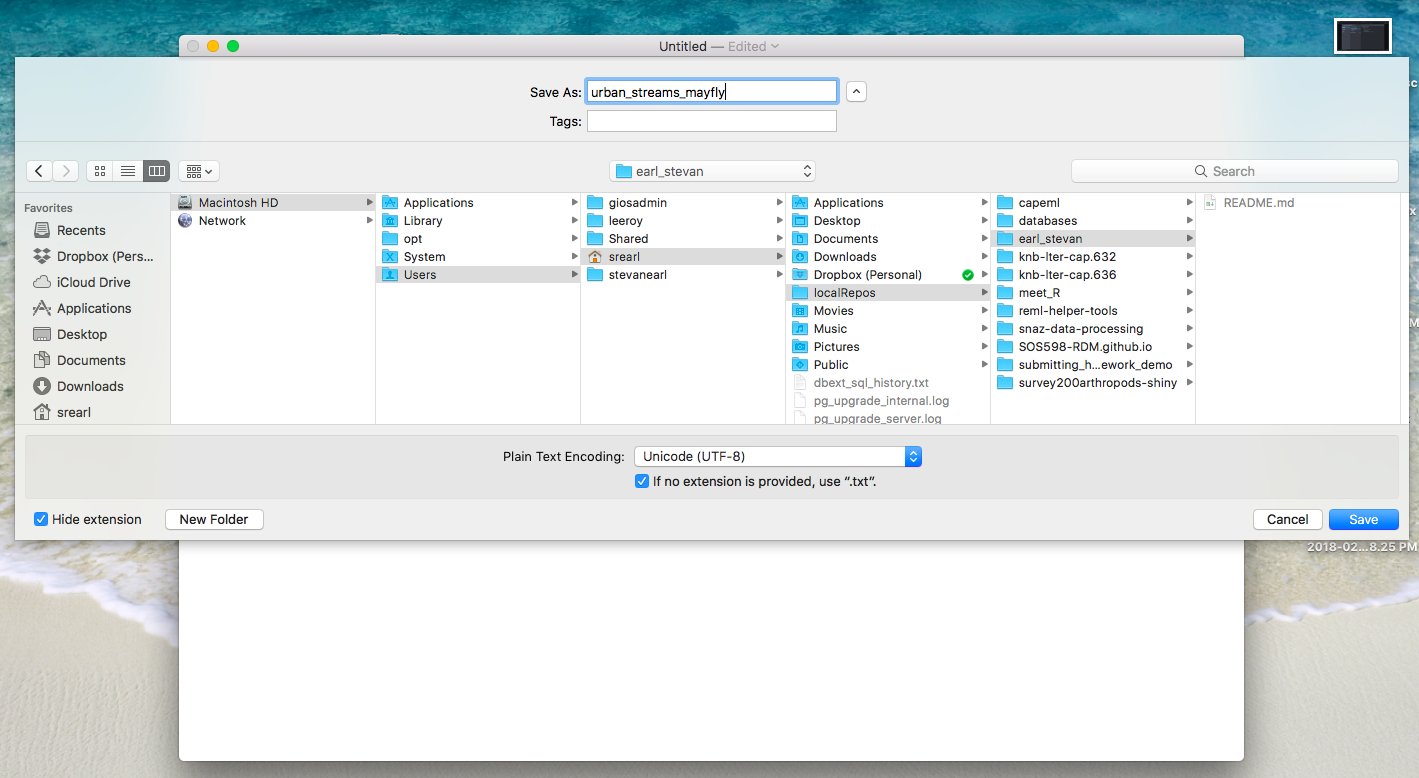
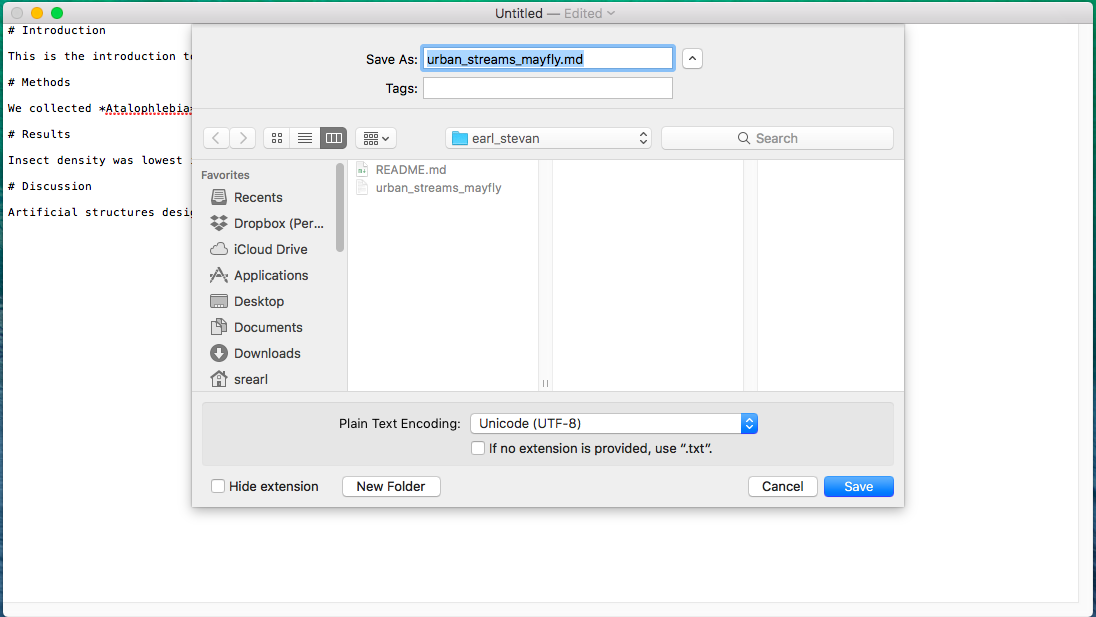
finished add/stage, commit

diff --git a/README.md b/README.md
@@ -46,7 +46,7 @@ Start GitKraken, and click on the folder icon in the top-left corner. This will 
 
 The only thing you need to decide here is where to put the directory on your computer. I have a directory called _localRepos_ where I clone all of my GitHub repositories to my local computer. It really does not matter, but give it some thought, and generally put the directory in a place where you can access it easily (e.g., do not bury it 10 directories deep) and avoid high-traffic areas like your Desktop, also avoid a locatio that is synced with another service like Dropbox or iCloud. Pick a spot on your computer to place the repository with the browse button, paste the address to the repository that you copied from GitHub in the URL box, and hit the greenish _clone the repo button_ on the lower right. 
 
-**GitKraken: respository management**
+**GitKraken: respository management screen**
 ![gitkraken_clone](figures/gitkraken_clone.png)
 
 **If all went well, you should see a screen like the one below indicating that you successfully cloned the repo.**
@@ -82,10 +82,15 @@ With TextEdit, we need to perform the preliminary step of telling TextEdit that 
 
 Now we can begin creating our markdown document. Markdown itself is outside the scope of this overview, but please read the *introduction/overview* and *reference sheet* materials on under the *resources/markdown* section of the main page of the course website.
 
-**In this simple markdown document, the \# symbol is a marker to create a header one \<h1\>, and the asterisks surrounding our Mayfly genus is a marker to italicize that word.**
+**In this simple markdown document, the # symbol is a marker to create a header one <h1>, and the asterisks surrounding our Mayfly genus is a marker to italicize that word.**
 ![simple_markdown](figures/simple_markdown.png)
 
-**When ready, save the document to the directory on our computer that is a clone of the GitHub repository. Mac's TextEdit gives us several encoding options in the save diaglog box - here we will select UTF-8. Generally try to use UTF.**
+When ready, save the document to the directory on our computer that is a clone of the GitHub repository. There are additional steps that we need to do with Mac's TextEdit when saving:
+* uncheck the box that says *If no extension is provided, use ".txt"*
+* the save dialog box gives us several encoding options, here we will select UTF-8 (generally try to use UTF)
+* use a logical filename and be sure to name it with the extension .md, which indicates that this is a markdown file
+
+**Saving our new markdown file to the directory**
 ![save_to_dir](figures/save_to_dir.png)
 
 When we are ready to save a snapshot of our repository, we go back to GitKraken. Let us do that in the next few steps.
@@ -99,12 +104,34 @@ Okay, let us say that we are at a point where we are ready to save a snapshot of
 * we need to share our progress with colleagues
 * or others...
 
-Go back to GitKraken or restart it if not open, and navigate to the repository where we are working if GitKraken is not already there - remember that you can navigate to different repositories from the file icon in the top-left corner and use the open option from the repository nagivation screen.
+Go back to GitKraken or restart it if not open, and navigate to the repository where we are working if GitKraken is not already open to that location - remember that you can navigate to different repositories from the file icon in the top-left corner and use the open option from the repository nagivation screen.
 
-The dashboard screen for your repository should now look different, notably that there is a dashed-circle above our initial commit snapshot (indicated by the solid circle). This indicates that Git has noticed there is a change to the contents of the repository. You will also notice that the markdown file we 
+The dashboard screen for your repository should now look different, notably that there is a dashed-circle above our initial commit snapshot (indicated by the solid circle). This indicates that Git has noticed there is a change to the contents of the repository. You will also notice that the markdown file we created is in the *Unstaged Files* area.
+
+**Git has detected that we have made a change to the repository**
 ![gitkraken_sees_changes](figures/gitkraken_sees_changes.png)
 
+To create a snapshot of the repository, we first need to stage the files that we have added or edited. In this case there is only one file in the directory but there could be any number. If we hover over the file, we will see an option to stage the file. Press the green *Stage File* button to stage the file.
 
+**Staging in GitKraken**
+![stage_file](figures/stage_file.png)
+
+Once we have staged the file, it will moved to the Staged Files area.
+
+**Staged files in GitKraken**
+![staged_file](figures/staged_file.png)
+
+Now that all of our new files or edits have been staged, we can perform a commit to save a snapshot of the current state of the project. In order to commit, we must supply Git with a commit message. In GitKraken, this is done in the Commit Message area. Type in a short but meaningful message about the changes or progress that are associated with the project for this commit. When you have supplied some text, a green Commit button will appear to perform the commit.
+
+**Commit in GitKraken**
+![commit_message](figures/commit_message.png)
+
+After our commit, we will see that GitKraken has changed again. The dotted circle indicating that Git had detected a change to our repository has changed to a solid circle with the corresponding commit message next to it. This is now the current state of the project.
+
+**Commit in GitKraken**
+![post_commit](figures/post_commit.png)
+
+This is great, we have added a file to the directory on our computer that is our GitHub repository, and we have staged and commited the new files or changes, which has created a snapshot of our project as it stands at this time. However, everything thus far has only happened on our local computer. Now we want to PUSH all of the new files and/or edits we have made to this repository that lives on GitHub. We will do that in the next step.
 
 ## push files to your GitHub repository
 ## open a GitHub issue when assignment is complete
